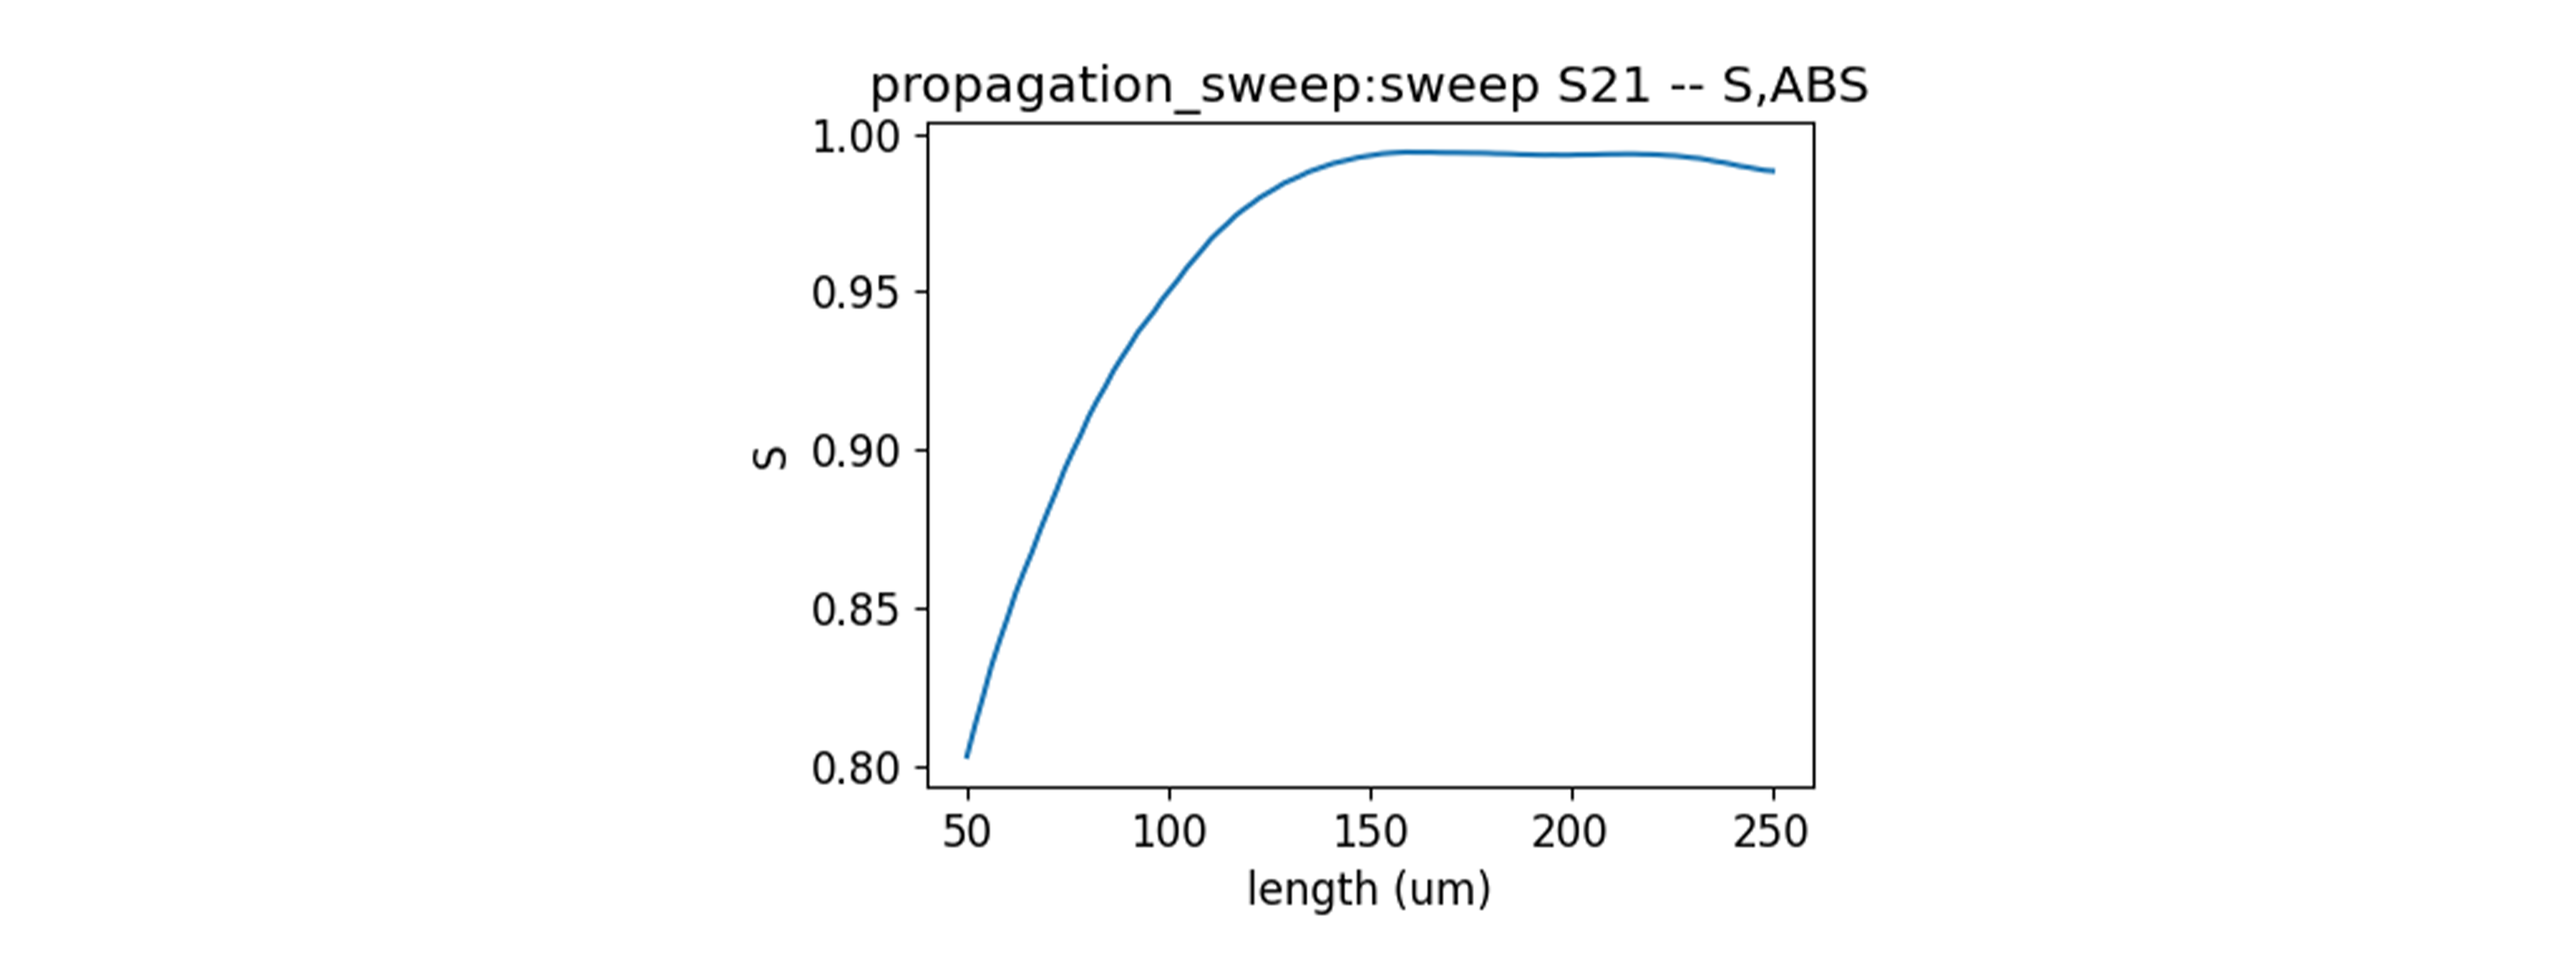
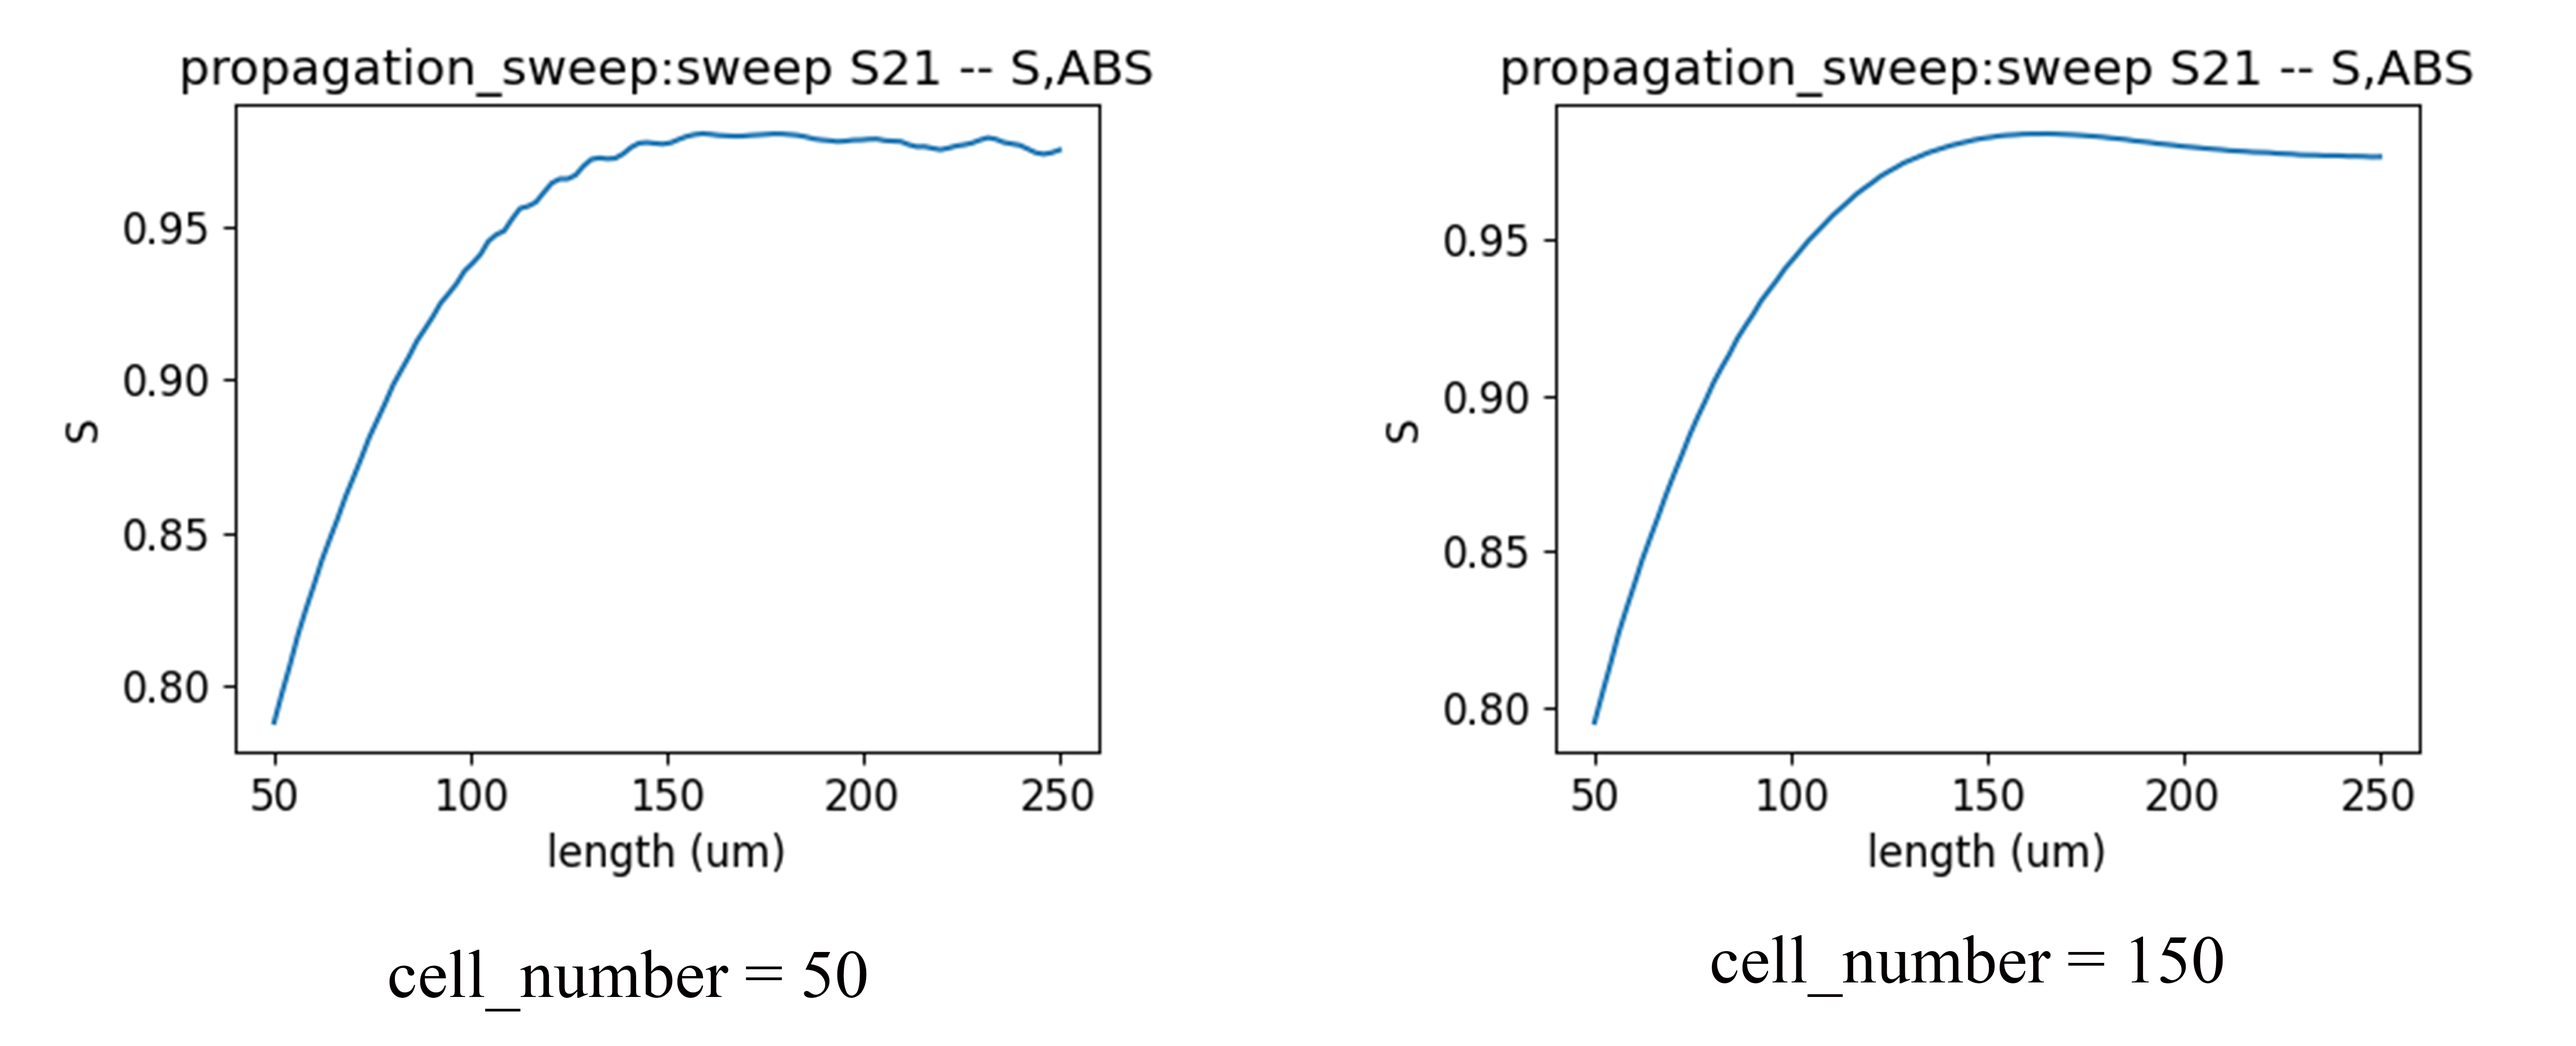
last

diff --git a/docs/examples/PIC/ssc/SSC.md b/docs/examples/PIC/ssc/SSC.md
@@ -3,59 +3,115 @@ import {InlineMath, BlockMath} from 'react-katex';
 
 # Spot Size Converter
 
-## Introduction:
+## Introduction
 <div class="text-justify">
 
-![](structureps.png)
- The spot size converter is an important device connecting the silicon photonic integrated chip and the external optical fiber. The slow changing waveguide structure is used to reduce the light spot in the optical fiber to the size matching the waveguide mode field, which greatly reduces the coupling loss.
+![](structure_ps.png)
+The spot size converter is an important device for connecting silicon photonic integrated chips and external optical fibers, which can couple the light transmitted in the fiber into the waveguide with low loss. As shown in the figure, low refractive index SiON is used to cover the long conical silicon waveguide, and the entire waveguide device is placed in a silica environment. After passing through a conical silicon waveguide, the large-sized spot is limited to a size similar to the waveguide size, which can effectively couple into the waveguide.
 
+The EME method has great advantages in calculating long conical waveguides. By dividing the structure into multiple cells and calculating the mode and bidirectional transmission at the cell boundary, the S-matrix of the entire device is obtained. And when using length scanning, only the bidirectional transmission part needs to be calculated to obtain the S parameter of length scanning.
 </div>
 
 
-## Simulation:
-<div class="text-justify">
- The eigenmode expansion (EME) solver is very suitable for solving long-distance transmission problems such as spot size  converter, and devices can be quickly designed through length scanning.
-</div>
-
-### step 1: Add Project
+## Simulation Structure
+### 1. Code Description
+#### 1.1 Import Toolkit
 <div class="text-justify">
 
- First, we need to import the software development kit and use its `Project()` to build a project.
+First, we need to import `maxoptics_sdk` and Python's function packages.
 </div>
 
-```
-# region --- 1. Project ---
+```python
 import maxoptics_sdk.all as mo
-pj = mo.Project(name=project_name, location="local")
+from maxoptics_sdk.helper import timed, with_path
+import os
+import time
+from typing import NamedTuple
+```
+
+#### 1.2 Define Simulation Function 
+<div class="text-justify">
+We can define functions to encapsulate the entire simulation project and facilitate parameter assignment.
+
+</div>
+
+```python
+def simulation(*, run_mode="local", wavelength=1.55, grid=0.08, number_of_modes=10, run_options: "RunOptions", **kwargs):
+```
+
+<div class="text-justify">
+
+The `run_mode` variable parameter is used to define the location of the simulation run.<br/>The `wavelength` variable is defined as wavelength of the optical source.<br/>The `grid` variable is defined as grid size.<br/>The `number_of_modes` variable is used to define the number of modes of calculation.
+
+</div>
+
+#### 1.3 Define Parameters
+
+```python
+# region --- 0. General Parameters ---
+path = kwargs["path"]
+simu_name = "EME_SSC"
+time_str = time.strftime("%Y%m%d_%H%M%S", time.localtime())
+project_name = f'{simu_name}_{run_mode}_{time_str}'
+plot_path = f'{path}/plots/{project_name}/'
+gds_file_root_path = os.path.abspath(os.path.join(path, '..'))
+gds_file = gds_file_root_path + "/examples_gds/SSC.gds"
 # endregion
 ```
 
-### step 2: Add Material
 <div class="text-justify">
 
- Here we demonstrate `Material()` adding materials to the project and using `add_lib()` to add materials from the material library.
+The `path` variable is used to store the path of this Python file.<br/>The `simu_name` variable is used to store simulation names.<br/>The `time_str` variable is used to store the timestamp.<br/>The `project_name` variable is used to store the project name.<br/>The `plot_path` variable is used to store the result path.<br/>The `gds_file` variable is used to store the file path of GDS.
+
 </div>
 
+#### 1.4 Create project
+Create a new project using the `Project` function.
+```python
+# region --- 1. Project ---
+pj = mo.Project(name=project_name, location=run_mode,)
+# endregion
 ```
+
+
+#### 1.5 Add Material
+<div class="text-justify">
+
+ Here we demonstrate using the `Material` function to create materials and using the `add_nondispersion` function to add non dispersive materials, as well as using the `add_lib` function to add materials from the material library.
+</div>
+
+```python
 # region --- 2. Material ---
 mt = pj.Material()
-mt.add_lib(name='Si', data=mo.Material.Si_Palik, order=2)
-mt.add_lib(name='SiO2', data=mo.Material.SiO2_Palik, order=2)
-mt.add_lib(name='Air', data=mo.Material.Air, order=2)
+mt.add_nondispersion(name="Si", data=[(3.476, 0)], order=2)
+mt.add_nondispersion(name="SiO2", data=[(1.465, 0)], order=2)
+mt.add_nondispersion(name="SiON", data=[(1.50, 0)], order=2)
+mt.add_lib(name="Air", data=mo.Material.Air, order=2)
 # endregion
 ```
 
-### step 3: Add Structure
 <div class="text-justify">
 
- The structure is composed of a substrate, a conical waveguide with high refractive index, and a cladding. Add
-geometric structures using `Structure()` and `add_geometry()`, and select the method of importing GDS to establish the model. It is necessary to set geometric and material parameters in the property. Select simulation materials by using `mesh_order` in areas where geometry overlaps.
+`name` is used to define the name of the added material.<br/>`data` is used to input the real and imaginary parts of the refractive index of the material.<br/>`order` is used to set the grid order of the material.
 
 </div>
 
-```
+#### 1.6 Add Structure
+<div class="text-justify">
+
+The structure is composed of a substrate, a conical waveguide with high refractive index, and a cladding. Add
+geometric structures using `Structure` and `add_geometry`function, and select the method of importing GDS to establish the model. It is necessary to set geometric and material parameters in the property.
+Select simulation materials by using `mesh_order` in areas where geometry overlaps. The higher the number, the higher the priority of the material.
+
+</div>
+
+```python
 # region --- 3. Structure ---
 st = pj.Structure(mesh_type="curve_mesh", mesh_factor=1.2, background_material=mt["SiO2"])
+st.add_geometry(name="sub", type="gds_file",
+                    property={"general": {"path": gds_file, "cell_name": "SSC", "layer_name": (1, 0)},
+                              "geometry": {"x": 0, "y": 0, "z": -1.5, "z_span": 3},
+                              "material": {"material": mt["SiO2"], "mesh_order": 1}})
 st.add_geometry(name="ssc", type="gds_file",
                 property={"general": {"path": gds_file, "cell_name": "SSC", "layer_name": (2, 0)},
                               "geometry": {"x": 0, "y": 0, "z": 0.1, "z_span": 0.2},
@@ -66,29 +122,54 @@ st.add_geometry(name="cover", type="gds_file",
                               "material": {"material": mt["SiON"], "mesh_order": 1}})
 # endregion
 ```
-
-### step 4: Add Boundary
+|Key | Value  |type |  Description |
+|-----|------|---------------|-----|
+|name|sub|string|name the added geometry|
+|type|gds_file|string|select the type of structure to add|
+|path|gds_file|string|file path of gds file|
+|cell_name|SSC|string| name of the gds cell |
+|layer_name|(1,0)|list|name of the layer |
+|x|0|float|The center position in the x-direction of the geometric structure|
+|y|0||center position in the y-direction of the geometric structure|
+|z|-1.5|3|center position in the z-direction of the geometric structure|
+|z_span|3|float| length of the geometric structure in the z-direction.|
+|material|mt["Si"]|material | Select the material in Material|
+|mesh_order|2|integer|Set the priority of the grid.
+#### 1.7 Set Boundary
 <div class="text-justify">
 
- Use `OBoundary()` optical boundary to set the boundaries and boundary conditions of the geometric structure.
+ Use `OBoundary` optical boundary to set the boundaries and boundary conditions of the geometric structure.
 </div>
 
-```
+```python
 # region --- 4. Boundary ---
-st.OBoundary(property={"geometry": {"x": 0, "x_span": 206, "y": 0, "y_span": 5.5, "z": 0.5, "z_span": 7,
-                        "boundary":{"y_min":"PEC","y_max":"PEC","z_min":"PEC,"z_max":"PEC"}}})
+st.OBoundary(property={"geometry": {"x": 0, "x_span": 206, "y": 0, "y_span": 5.5, "z": 0.5, "z_span": 7}})
+# endregion
+```
+#### 1.8 Add Sub Mesh
+<div class="text-justify">
+
+After light passes through a conical silicon waveguide, the spot becomes a very small spot, so the `add_mesh` function can be used to add grids to the silicon waveguide to calculate the contracted spot.
+</div>
+
+```python
+# region --- 5. Sub Mesh ---
+st.add_mesh(
+         name="sub_mesh",
+         property={"general": {"dx": grid, "dy": grid, "dz": grid},
+                   "geometry": {"x": 0, "x_span": 206, "y": 0, "y_span": 5.5, "z": 0.5, "z_span": 7}})
 # endregion
 ```
 
-### step 5: Add EME port
+#### 1.9 Add EME port
 <div class="text-justify">
 
- Add ports using `Port()` and `add()` in the project, and set the port type, geometric structure size, transmission mode, and quantity in the port.
+Use the `Port` function to create a port and set the source port in the property, which is used as input for calculating the s parameter.You can use the `add` function to add ports, and the specific parameters are shown in the table below.
 </div>
 
-```
-# region --- 5. Port ---
-pjp = pj.Port()
+```python
+# region --- 6. Port ---
+pjp = pj.Port(property={"source_port": "left_port"})
 pjp.add(name="left_port", type="eme_port",
             property={"geometry": {"port_location": "left", "y": 0, "y_span": 5.5, "z": 0.5, "z_span": 7},
                       "eme_port": {"general": {"mode_selection": "fundamental_TE"},
@@ -112,11 +193,11 @@ pjp.add(name="right_port", type="eme_port",
 | number_of_trial_modes | 15 | string | set the mode of port |
 
 
-### step 6: Add Monitor
- Add a monitor using engineering's `Monitor` and `add()`, and set up  `profile_monitor` type in the monitor to view the transmittance and field distribution at both ends of the spot converter.
+#### 1.10 Add Monitor
 
-```
-# region --- 6. Monitor ---
+Create a monitor using the `Monitor` function and add a field profile monitor using `add` to view the electric field profile and s parameters. The specific parameters are shown in the table below.
+```python
+# region --- 7. Monitor ---
 mn = pj.Monitor()
 for i, _pos in enumerate([-102, -99, 102]):
     mn.add(name="section"+str(i+1), type="profile_monitor",
@@ -131,17 +212,16 @@ mn.add(name="z_normal", type="profile_monitor",
 # endregion
 ```
 
-### step 7: Add EME solver
+#### 1.11 Add EME solver
 <div class="text-justify">
 
- Add a simulation using engineering's `Simulation()` and `add()`, and select the EME simulation type. Divide the geometric structure into four regions in `cell_grop_definition`, set the number of `cell_number` in the slowly changing geometric structure, and use the `sub_cell` method.
+We use the `Simulation` function to create a simulation and the `add` function to add a solver. Select the EME solver in the type, and the property of the solver are shown in the table below.
 
-![](EMESSCPS.png)
 </div>
 
-```
 
-# region --- 7. solver ---
+```python
+# region --- 8. solver ---
 simu = pj.Simulation()
 simu.add(name=simu_name, type="EME",
         property={"general": {"wavelength": wavelength, "use_wavelength_sweep": True},
@@ -163,7 +243,7 @@ simu.add(name=simu_name, type="EME",
 # endregion
 ```
 | key | value | type | description |
-|-----------| ----- | ---- | ----- |
+|:-----------:| :-----: | :----: | :-----: |
 | name | simu_name | string | name of simulation |
 |  type |  EME | string | select the type of solver |
 | wavelength |  1.5 | float | wavelength of mode |
@@ -183,16 +263,21 @@ simu.add(name=simu_name, type="EME",
 | phase | 0 | float | the initial phase of optical source |
 | select_mode | TE |string| mode of optical source |
 
+According to the shape of structural, the SSC is divided into four cell groups using `cell_group_definition`. Set the length of the cell group in `span`, use `cell_number` to set the number of cell group. The divided cell structure is shown in the following figure. To set the number of modes in the cell interface using `number_of_modes`, it is necessary to set a sufficient number of modes to obtain accurate results.
 
-### step 8: Run and export results
+The area where the structure has not changed, because the cross-section is the same everywhere, the number of `cell_number` is set to 1, and `sc` is set to "none". In the area of structural changes, multiple cell number need to be used to characterize the structure, and the "sub_cell" method is used to reduce the step effect caused by discrete changes in the cross-section.
+
+![](EME_SSC.png)
+
+#### 1.12 Run and Extract Results
 <div class="text-justify">
 
- Run the EME simulation using `simu[simu_name].run()`, where `simu_name` is the name of the EME simulation.
+Run the EME simulation using `simu[simu_name].run()`, where `simu_name` is the name of the EME simulation.
 Extract data using `extract()`, where `data` is the calculation result data, `savepath` is the storage path, `target` is the classification of the data, and `monitor_name` is the name of the monitor.
 </div>
 
-```
-# region --- 8. see result ---
+```python
+# region --- 9. see result ---
 eme_res = simu[simu_name].run()
 eme_res.extract(data='eme_propagate:facet_data', savepath=plot_path, real=True, imag=True, export_csv=True)
 eme_res.extract(data="eme_propagate:smatrix", savepath=plot_path + "011_eme_smatrix_intensity",
@@ -208,18 +293,28 @@ for i in range(3):
 # endregion
 ```
 
-## Result and Analysis
+### 2 Output Results
 <div class="text-justify">
 
+ The EME solver first calculates the mode of the cell boundary cross-section, and then obtains the scattering matrix for each cross-section by matching the tangential electric and magnetic fields. After bidirectional transmission of the scattering matrix for each cross-section, the S-matrix of the entire device can be obtained. To ensure the accuracy of the calculation results, the number of calculated modes in the cross-section can be gradually increased until the results converge.
 
- The EME solver calculates the template converter by using multiple elements in the region of geometric changes, calculating the cross-sectional patterns of the elements, and calculating the S-matrix by comparing the matching of electromagnetic fields.To verify the accuracy of the calculation results, it is possible to gradually increase the number of transmission modes in the cross-section to determine whether the results converge.
+After the propagation calculation is completed, the extracted results can be viewed in the storage path, and the extraction of the results can only be set before the program runs. The electric field profile of the light passing through the template converter on the cross-section is shown in the figure below, and it is obvious that the outgoing light spot is much smaller than the incoming light spot.
 
- The electric field distribution at the input and output ends of the mode spot converter is shown in the figure, and it is obvious that the light spot decreases significantly after passing through the silicon waveguide.
+![](SSC_E.png)
 
+After bidirectional transmission calculation in the mode, the electric field distribution in the transmission direction can be constructed.
+![](SSC_xy.png) 
 
-![](SSCE.png)
+Similarly, after EME propagation calculation, the S-matrix of the entire device can be obtained, and the result only outputs the S-matrix of the light source mode at the port.
 
- EME can quickly scan the length without calculating the mode at the cross-section, and can quickly obtain the S parameter.
+![](S_matrix.png)
+</div>
+
+## Analysis and Discuss
+When calculating the area of structural change in EME, it is necessary to divide the structure into multiple cells, and the calculated mode is located at the boundary of the cells. The more cells divided, the more accurate the characterization of the structure. In the long conical waveguide region, the number of cells divided is too small, and the calculated cross-sectional area varies greatly, resulting in a strong staircase effect.
+
+As shown in the figure below, I conducted a length scan of 50-250 um on the conical waveguide area. When the scan length was greater than 100 um, I divided it into 50 cells to obtain a fluctuation in the transmission rate of SSC; When we increase the number of cells divided into conical regions, the change in transmittance becomes smooth. Therefore, in EME simulation, in addition to ensuring the number of modes at the cell cross-section, there should also be sufficient number of cells.
 
 ![](S21.png)
-</div>
+
+If necessary, you can use `length_sweep` to set wavelength scanning in the EME solver.
